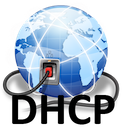
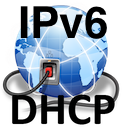
Generate IPv6 config instead of IPv4

Changed region(s): [[0.25, 0.0312, 0.8438, 0.3125], [0.1562, 0.0312, 0.2188, 0.3125]]

diff --git a/dhcp_server/DOCS.md b/dhcp_server/DOCS.md
@@ -126,18 +126,6 @@ The IP address you want the DHCP server to assign.
 
 ## Support
 
-Got questions?
-
-You have several options to get them answered:
-
-- The [Home Assistant Discord Chat Server][discord].
-- The Home Assistant [Community Forum][forum].
-- Join the [Reddit subreddit][reddit] in [/r/homeassistant][reddit]
-
 In case you've found a bug, please [open an issue on our GitHub][issue].
 
-[discord]: https://discord.gg/c5DvZ4e
-[forum]: https://community.home-assistant.io
 [issue]: https://github.com/home-assistant/hassio-addons/issues
-[reddit]: https://reddit.com/r/homeassistant
-[repository]: https://github.com/hassio-addons/repository

diff --git a/dhcp_server/README.md b/dhcp_server/README.md
@@ -1,4 +1,4 @@
-# Home Assistant Add-on: DHCP server
+# Home Assistant Add-on: DHCP IPv6 server
 
 A simple DHCP server.
 
@@ -7,6 +7,8 @@ A simple DHCP server.
 This add-on provides a simple DHCP server for your network.
 It provides some basic needs, like, reserving IP addresses for your devices
 to ensure they always get assigned the same IP address.
+
+This work based on [original HASS dhcp_server addon](https://github.com/home-assistant/addons/tree/master/dhcp_server) but for IPv6.
 
 [aarch64-shield]: https://img.shields.io/badge/aarch64-yes-green.svg
 [amd64-shield]: https://img.shields.io/badge/amd64-yes-green.svg

diff --git a/README.md b/README.md
@@ -9,4 +9,4 @@
 
 ## Add-ons
 
-- [DHCP Server with IPv6](dhcp_server/README.md)
+- [DHCP IPv6 Server](dhcp_server/README.md)
